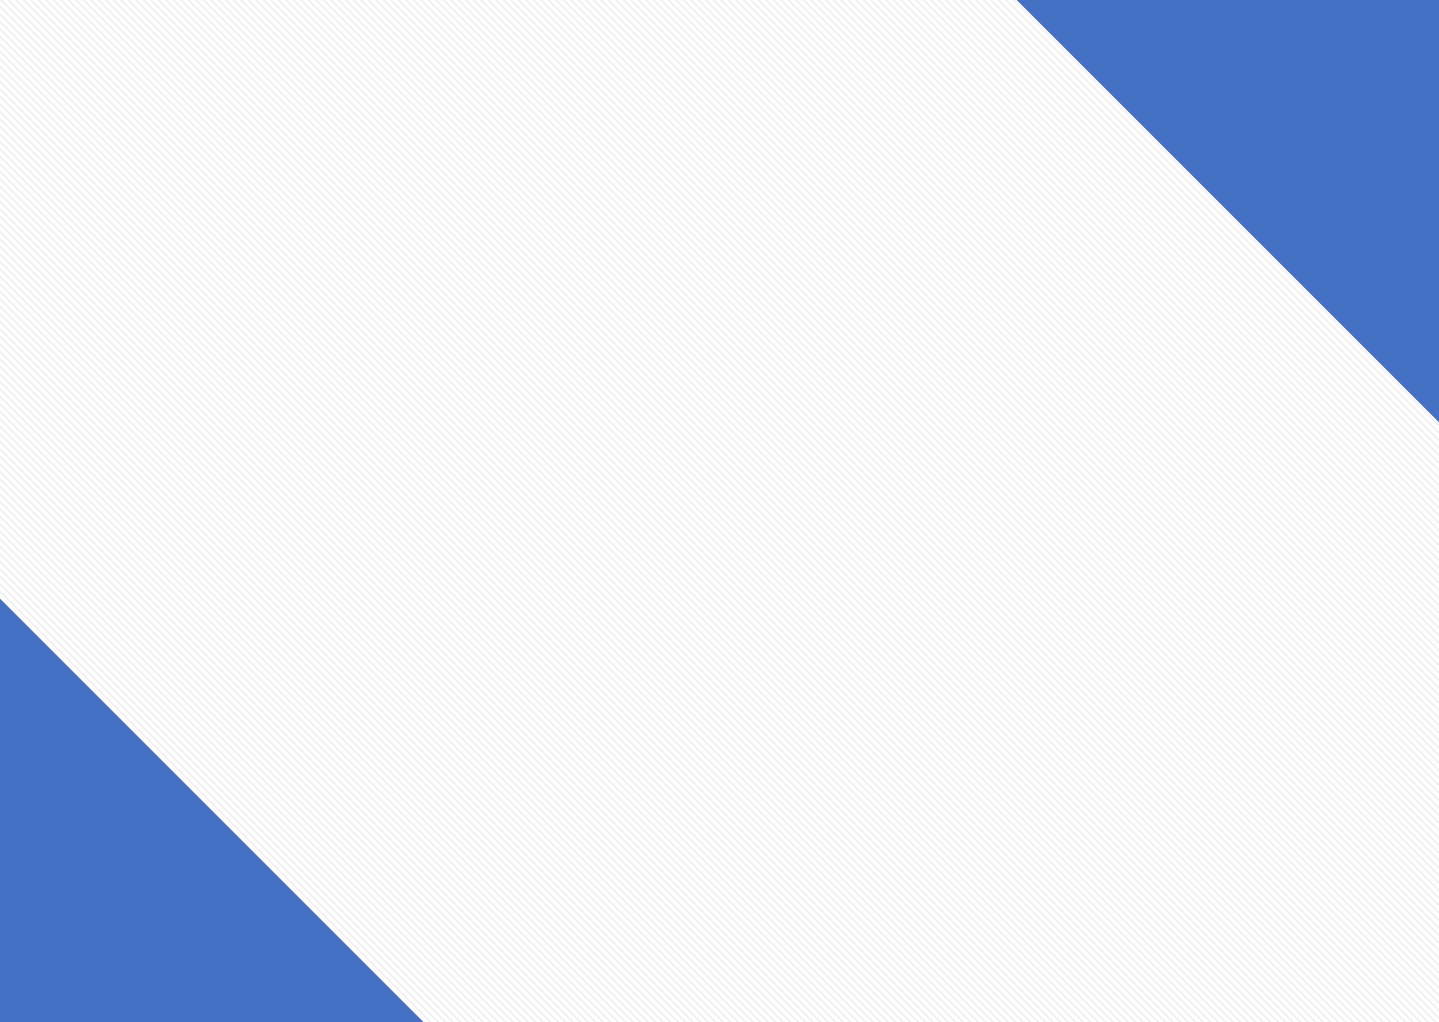
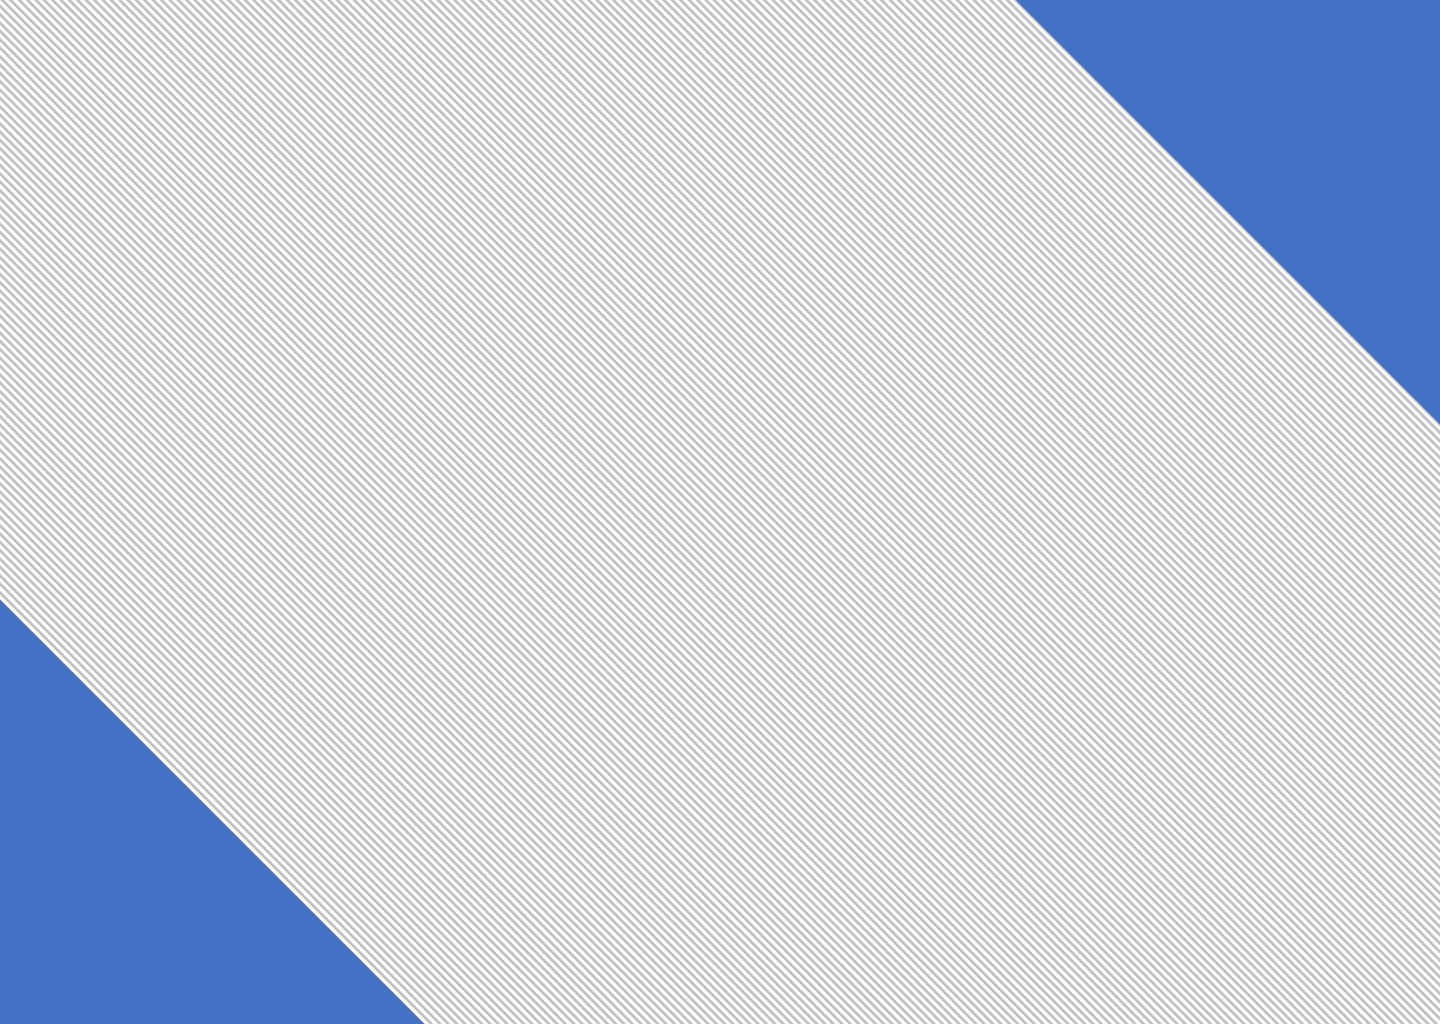
AJUSTE IMAGEM DE FUNDO

diff --git a/Painel_RH.css b/Painel_RH.css
@@ -492,7 +492,7 @@ header h2{
     transform: translateY(-40px);
   }
   body {
-    background: #FFF url("./background-painel-rh-2.png") no-repeat;
+    background: #FFF url("./background-painel-rh.png") no-repeat;
     background-position: center;
     background-size: 100% 100%;
   }
